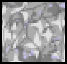
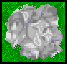
-updated water.png -updated rock.png -updated player -added Mushroom entity for food -added Berry bush entity for food

diff --git a/client/src/main/java/com/survival/sim/common/entities/World.java b/client/src/main/java/com/survival/sim/common/entities/World.java
@@ -62,6 +62,22 @@ public class World {
                 entities.add(new RockEntity(xPos, yPos,0,false,100));
             }
         }
+        /* Create mushrooms */
+        for (int i = 0; i < 100; i++){
+            int xPos = r.nextInt(200);
+            int yPos = r.nextInt(200);
+            if(!(tiles[0][xPos][yPos] instanceof TileWater)){
+                entities.add(new MushroomEntity(xPos, yPos,0,false,100));
+            }
+        }
+        /* Create berry bushes */
+        for (int i = 0; i < 100; i++){
+            int xPos = r.nextInt(200);
+            int yPos = r.nextInt(200);
+            if(!(tiles[0][xPos][yPos] instanceof TileWater)){
+                entities.add(new BerryBushEntity(xPos, yPos,0,false,100));
+            }
+        }
         System.out.println("Done creating the world..");
     }
 

diff --git a/client/src/main/java/com/survival/sim/common/util/Json.java b/client/src/main/java/com/survival/sim/common/util/Json.java
@@ -25,7 +25,9 @@ public class Json {
                 .registerSubtype(TileWater.class)
                 .registerSubtype(Entity.class)
                 .registerSubtype(TreeEntity.class)
-                .registerSubtype(RockEntity.class);
+                .registerSubtype(RockEntity.class)
+                .registerSubtype(MushroomEntity.class)
+                .registerSubtype(BerryBushEntity.class);
 
         gson = new GsonBuilder()
                 .registerTypeAdapterFactory(typeFactory)

diff --git a/client/src/main/java/com/survival/sim/common/entities/Player.java b/client/src/main/java/com/survival/sim/common/entities/Player.java
@@ -35,7 +35,7 @@ public class Player implements Locatable, Renderable {
         this.thirst = 100;
         this.hunger = 100;
         this.location = new Tile(5, 5, 0);
-        animationSequence.addSpritePath("imgs/Player.png");
+        animationSequence.addSpritePath("imgs/PlayerFront.png");
     }
 
     public Player() {
